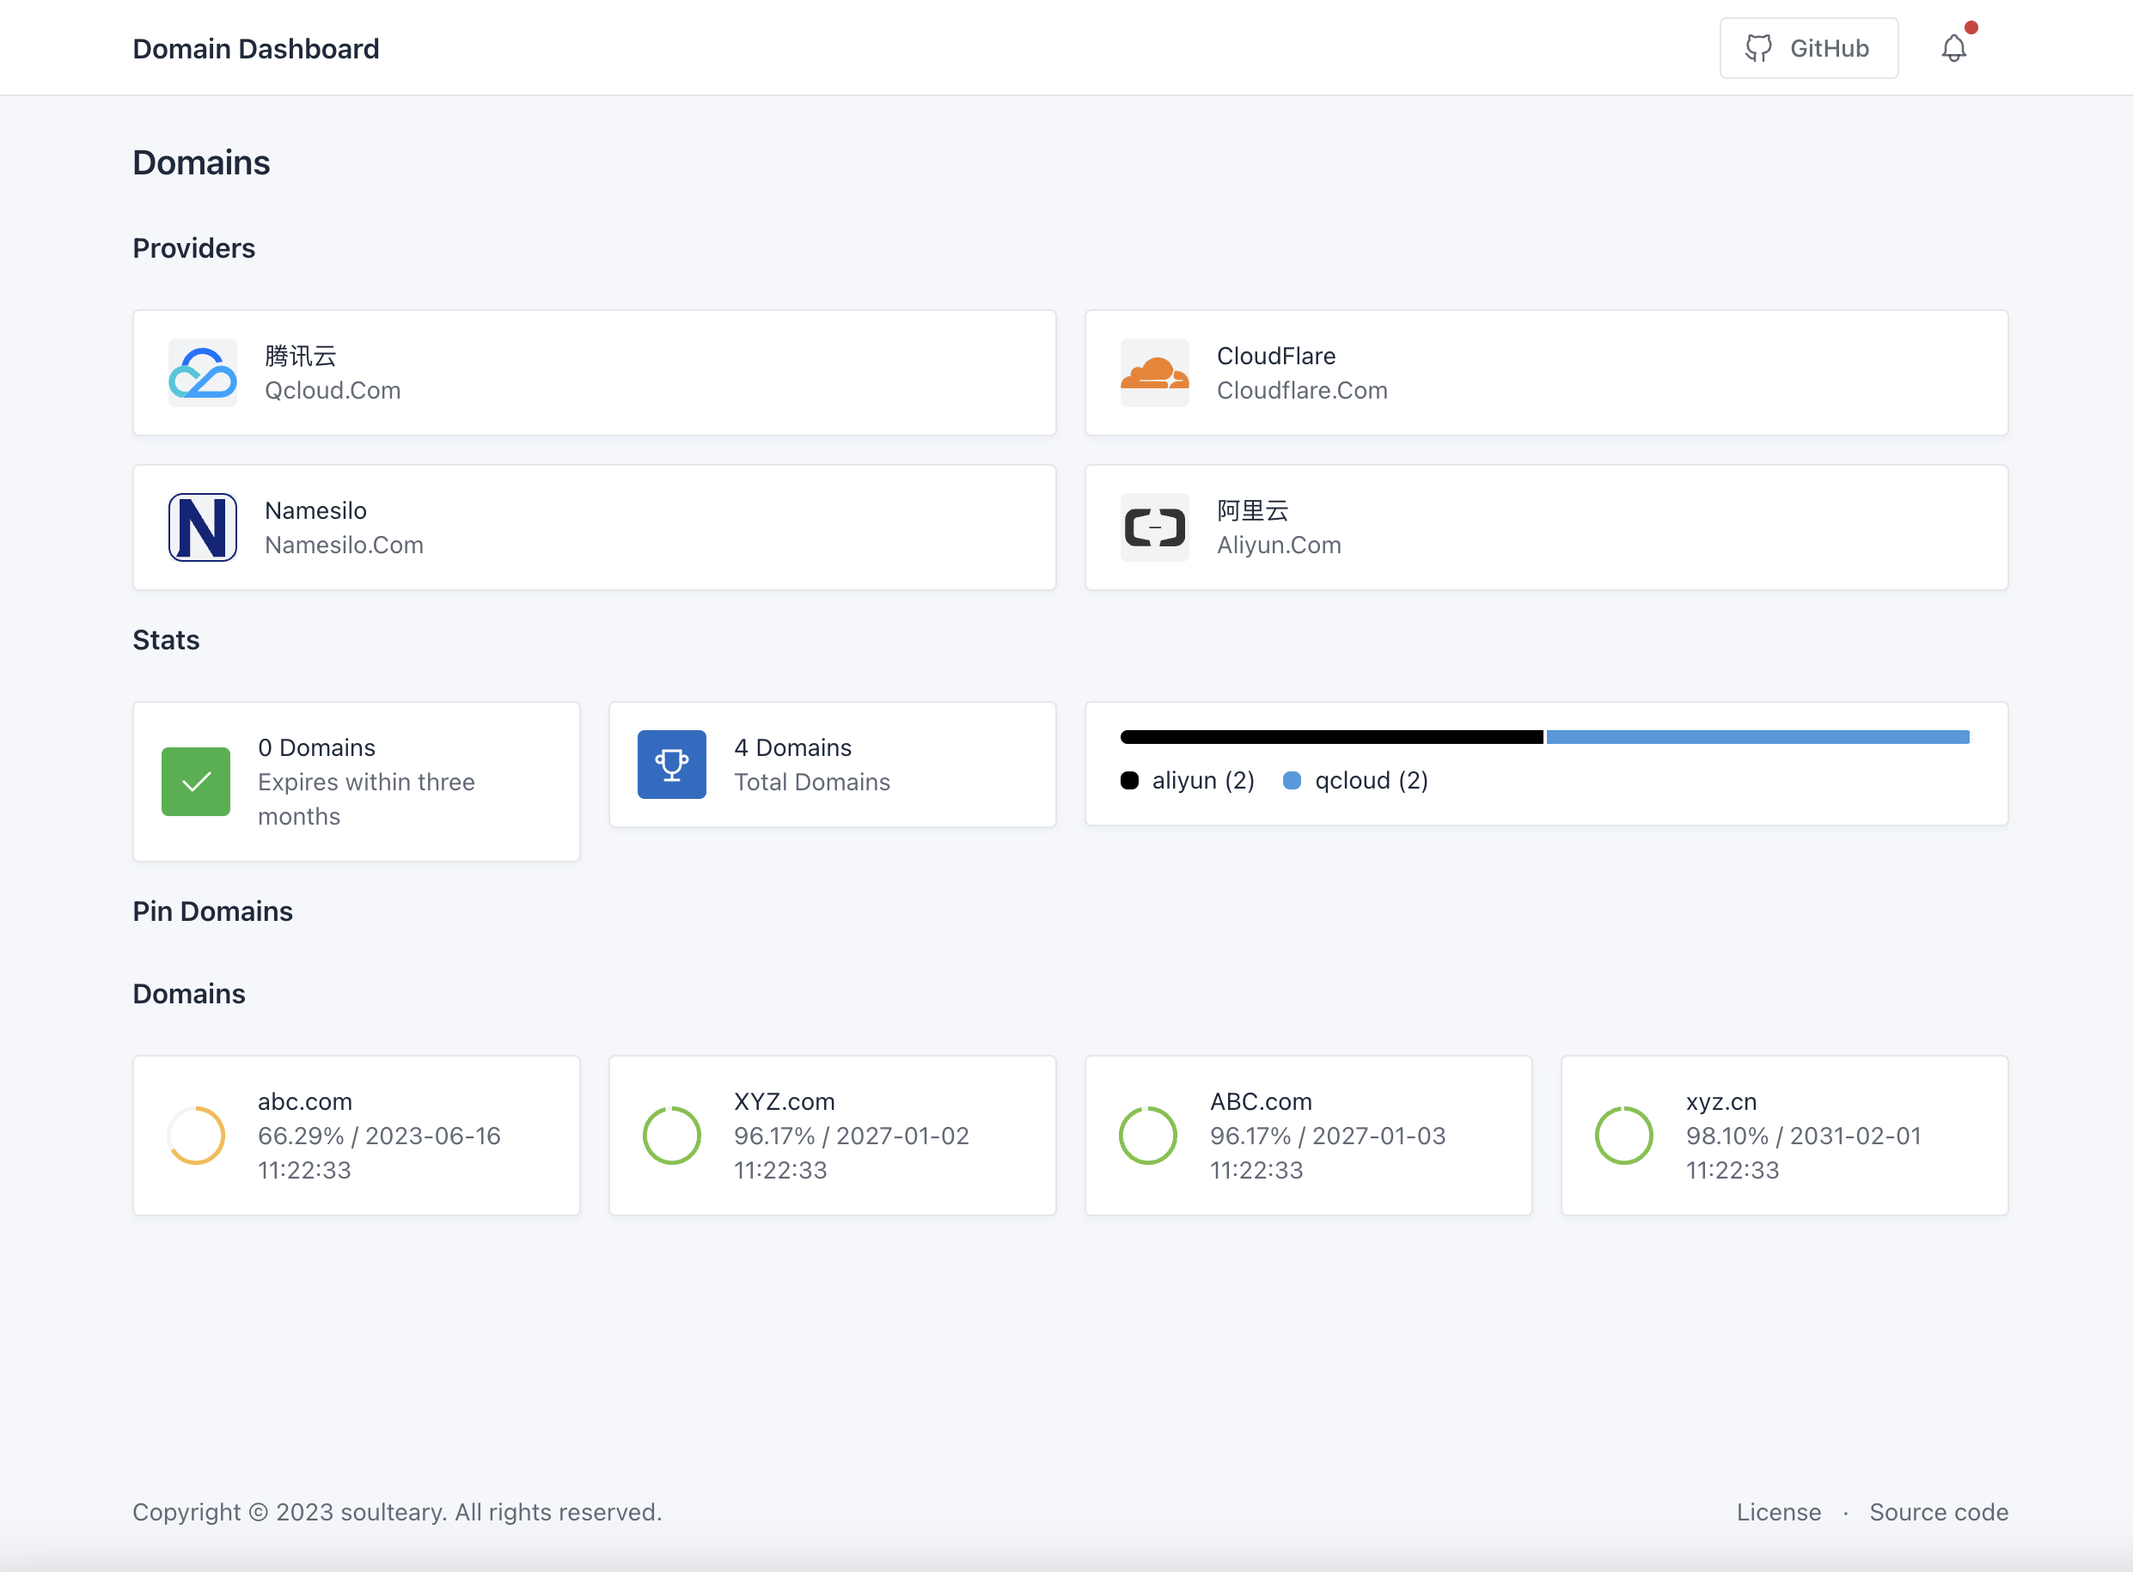
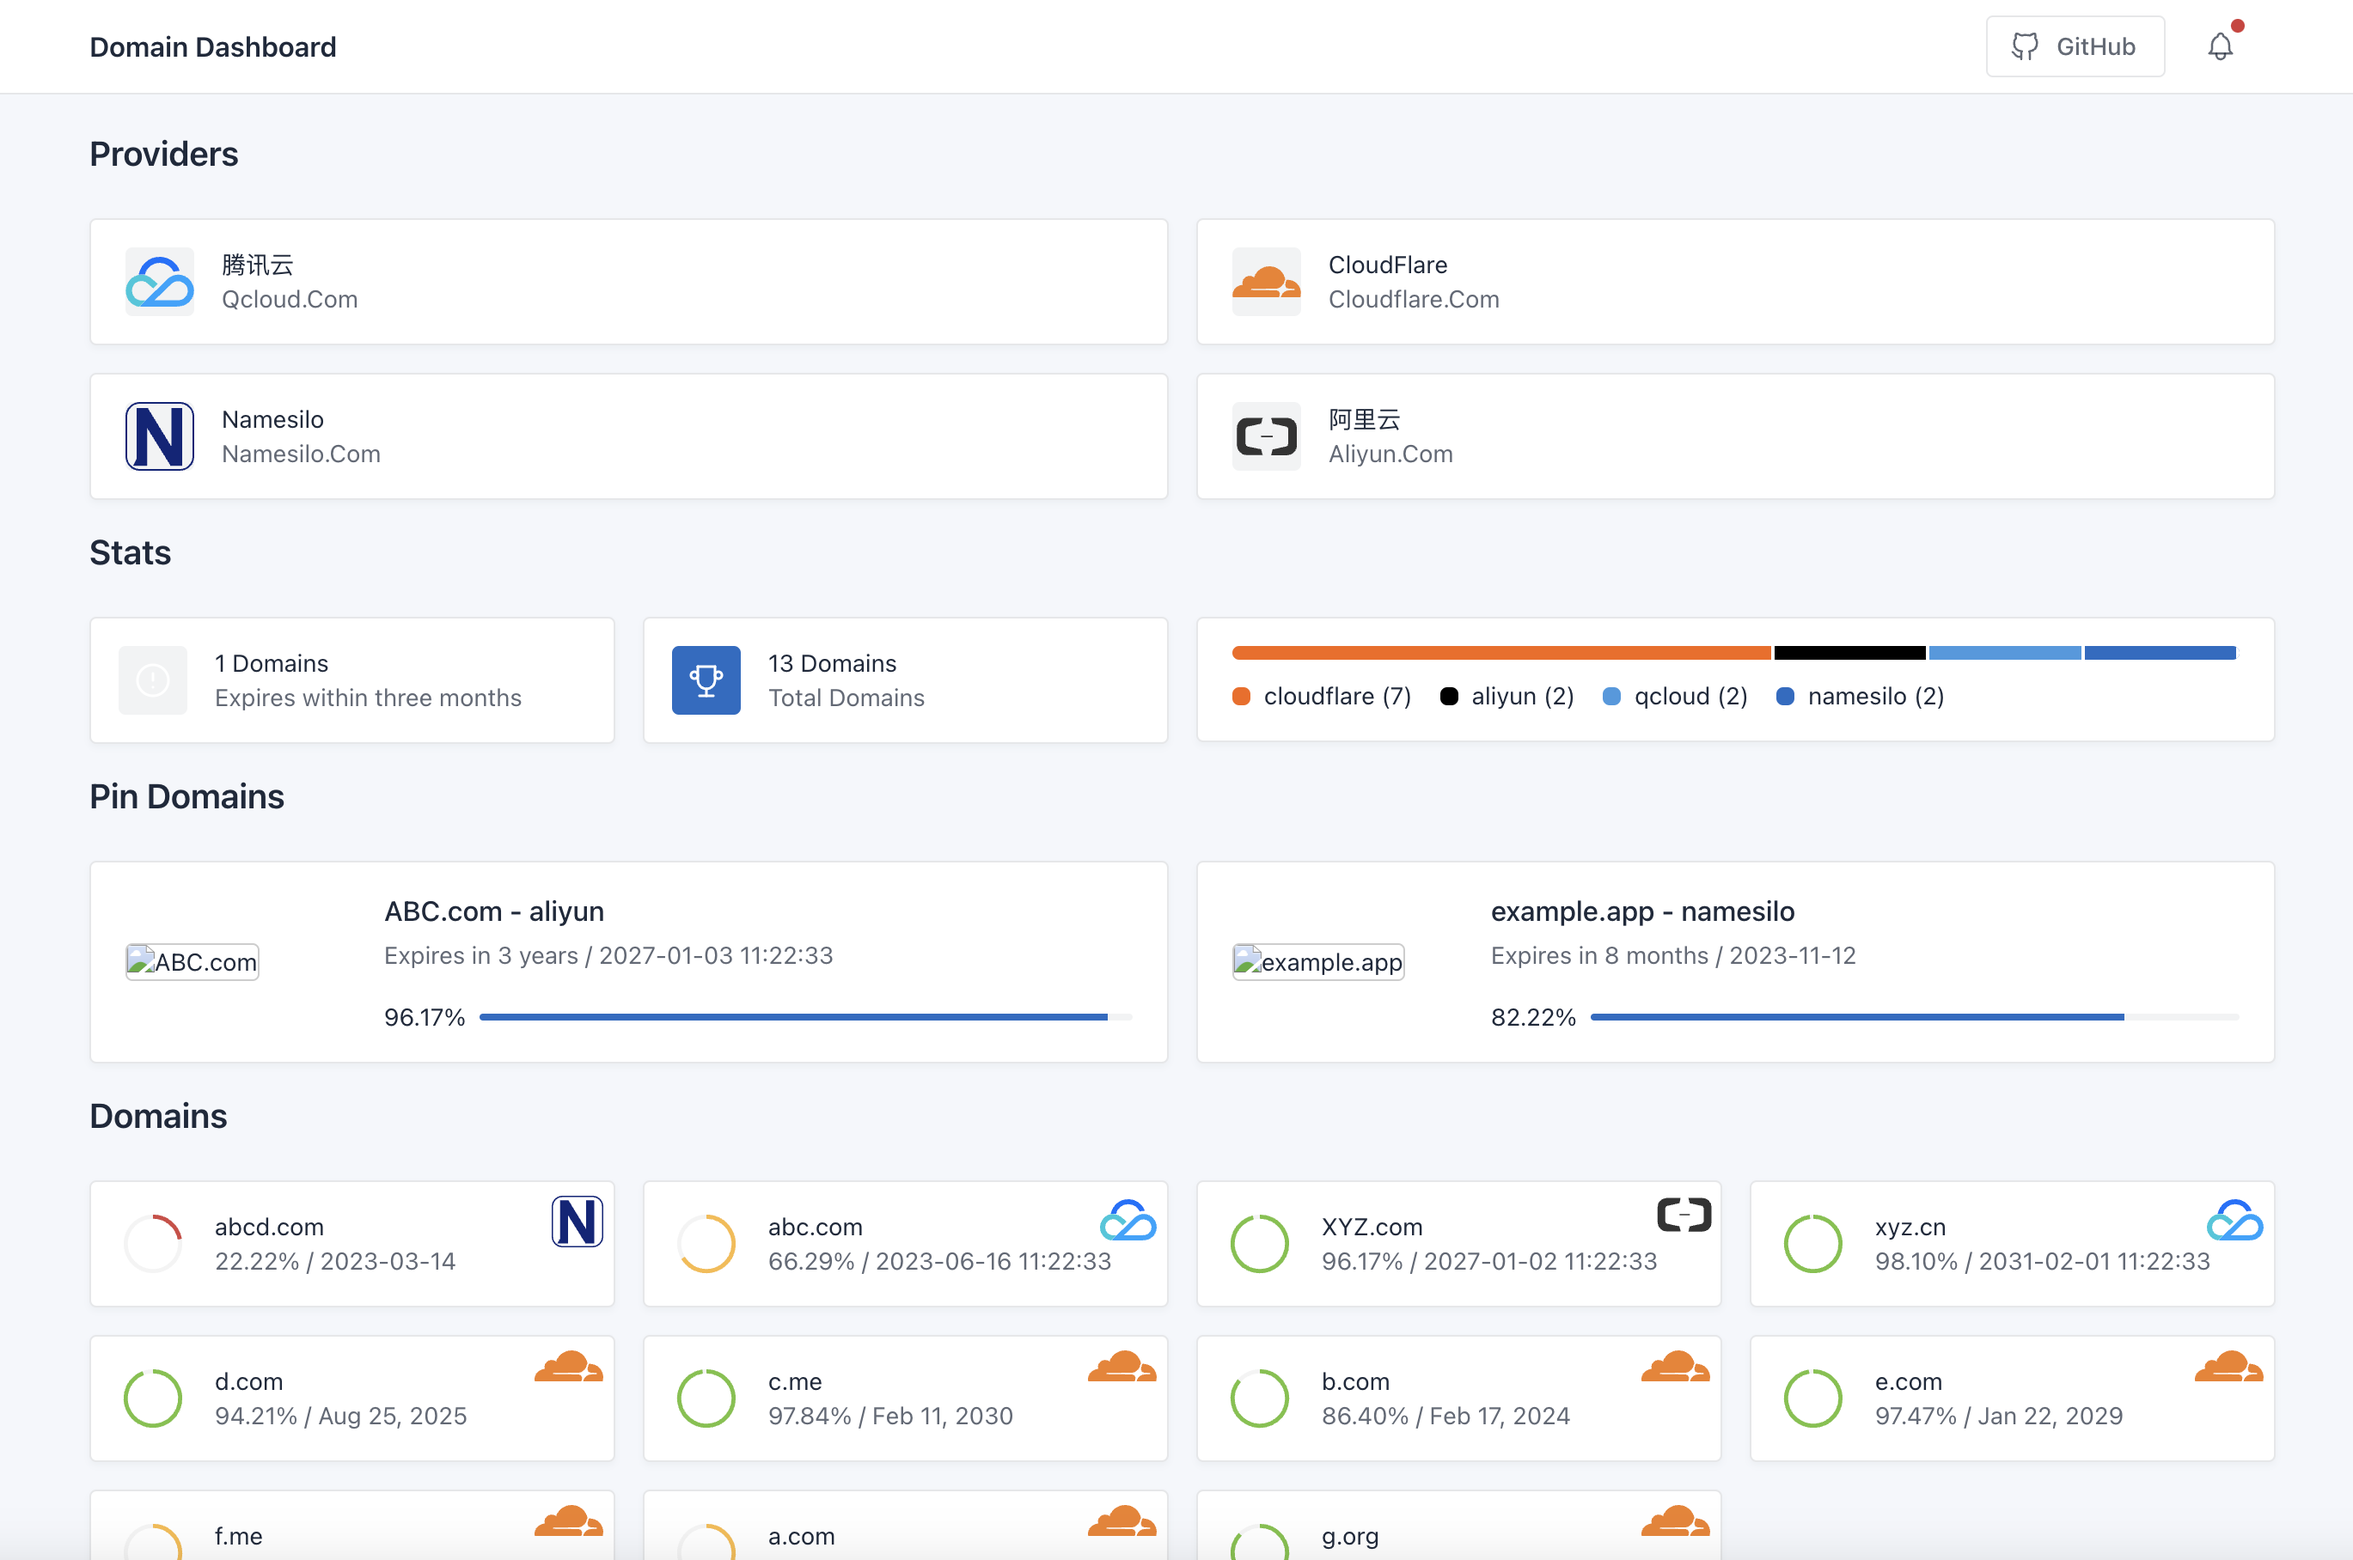
feat: add Cloudflare

diff --git a/embed/assets/css/app.css b/embed/assets/css/app.css
@@ -33,3 +33,8 @@ body.enable-mosaic .mosaic {
   height: 30px;
 }
 
+.card-body .icon-cloud-cloudflare {
+  right: 6px;
+  top: 8px;
+  height: 18px;
+}

diff --git a/modules/api/api.go b/modules/api/api.go
@@ -79,6 +79,19 @@ func processNamesilo(lines []string) (domains [][]string) {
 	return domains
 }
 
+func processCloudflare(lines []string) (domains [][]string) {
+	chunks := misc.SplitArray(lines, 3)
+	var dateTimeRegexp = regexp.MustCompile(`\w+\s\d+,\s\d{4}`)
+	for _, v := range chunks {
+		var domain []string
+		domain = append(domain, v[0])
+		domain = append(domain, "")
+		domain = append(domain, dateTimeRegexp.FindString(v[2]))
+		domains = append(domains, domain)
+	}
+	return domains
+}
+
 func LoadData() (domains Response) {
 	dir := "data"
 
@@ -109,6 +122,10 @@ func LoadData() (domains Response) {
 
 			if strings.Contains(fileToLower, "namesilo") {
 				domains.Namesilo = processNamesilo(lines)
+			}
+
+			if strings.Contains(fileToLower, "cloudflare") {
+				domains.Cloudflare = processCloudflare(lines)
 			}
 		}
 
